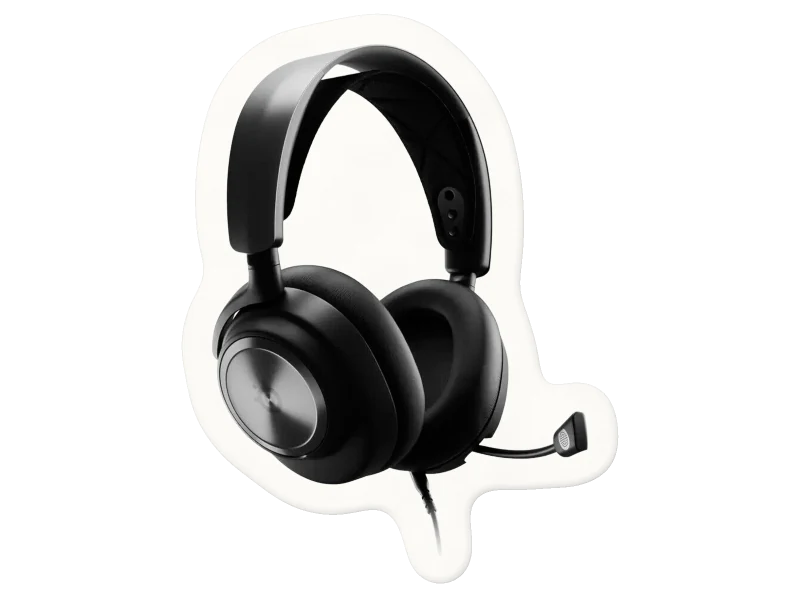
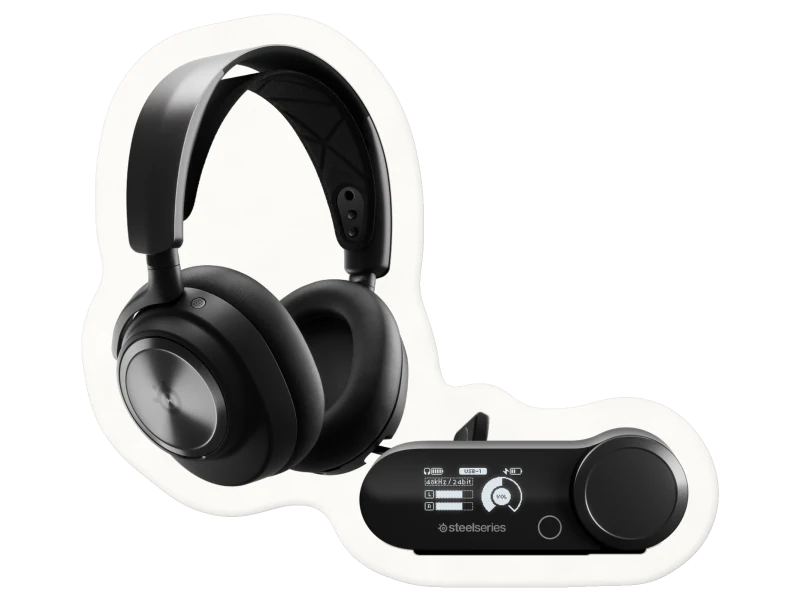
things: razor on its stand in one sticker, real Arctis Nova Pro Wireless with GameDAC

diff --git a/tools/stickers/make_stickers.py b/tools/stickers/make_stickers.py
@@ -112,7 +112,37 @@ def render_svg(svg: str, long_side: int = 1800) -> Image.Image:
     return Image.open(io.BytesIO(bytes(png))).convert("RGBA")
 
 
+def compose_layers(spec: dict, cache: Path) -> Image.Image:
+    """Build the source from several (already transparent) images.
+
+    spec["compose"] = {"size": [W, H], "layers": [{"source", "crop"?, "box": [x0, y0, x1, y1]}, ...]}
+    Each layer is cropped (fractions), trimmed to its alpha, fitted inside its box (fractions of
+    the canvas, aspect kept, bottom-centred) and pasted in order, later layers on top.
+    """
+    comp = spec["compose"]
+    W, H = comp.get("size", [1600, 1200])
+    canvas = Image.new("RGBA", (W, H), (0, 0, 0, 0))
+    for layer in comp["layers"]:
+        im = load_source(layer, cache)
+        if "crop" in layer:
+            x0, y0, x1, y1 = layer["crop"]
+            im = im.crop((round(x0 * im.width), round(y0 * im.height), round(x1 * im.width), round(y1 * im.height)))
+        bb = im.getchannel("A").point(lambda v: 255 if v > 8 else 0).getbbox()
+        if bb:
+            im = im.crop(bb)
+        bx0, by0, bx1, by1 = layer["box"]
+        bw, bh = (bx1 - bx0) * W, (by1 - by0) * H
+        s = min(bw / im.width, bh / im.height)
+        im = im.resize((max(1, round(im.width * s)), max(1, round(im.height * s))), Image.LANCZOS)
+        x = round(bx0 * W + (bw - im.width) / 2)
+        y = round(by1 * H - im.height)
+        canvas.alpha_composite(im, (x, y))
+    return canvas
+
+
 def load_source(spec: dict, cache: Path) -> Image.Image:
+    if "compose" in spec:
+        return compose_layers(spec, cache)
     src = spec["source"]
     if src.startswith("iconify:"):
         svg = iconify_svg(src, cache)

diff --git a/tools/stickers/README.md b/tools/stickers/README.md
@@ -62,6 +62,7 @@ python3 -m venv .venv && .venv/bin/pip install -r tools/stickers/requirements.tx
 | `shape: ellipse`, `shape_shrink` | remplace un masque irrégulier par l'ellipse ajustée (objets ronds) |
 | `flatten` | nettoie les taches d'un tissu clair : `{min_v, max_s, sigma, keep, detail}` |
 | `book` | couverture → livre : tranche de pages et plat arrière (valeur = épaisseur relative, ex. `0.03`) ; à combiner avec `rotate` |
+| `compose` | assemble plusieurs images déjà détourées en une seule source : `{"size": [W, H], "layers": [{"source", "crop"?, "box": [x0, y0, x1, y1]}]}`, chaque calque rogné à son alpha, ajusté dans sa boîte (fractions du canevas, calé en bas) puis empilé dans l'ordre ; `source` reste requis (premier calque) |
 | `page` | page où la source a été trouvée (traçabilité) |
 | `note` | remarque libre (modèle exact, pourquoi pas de source…) |
 
